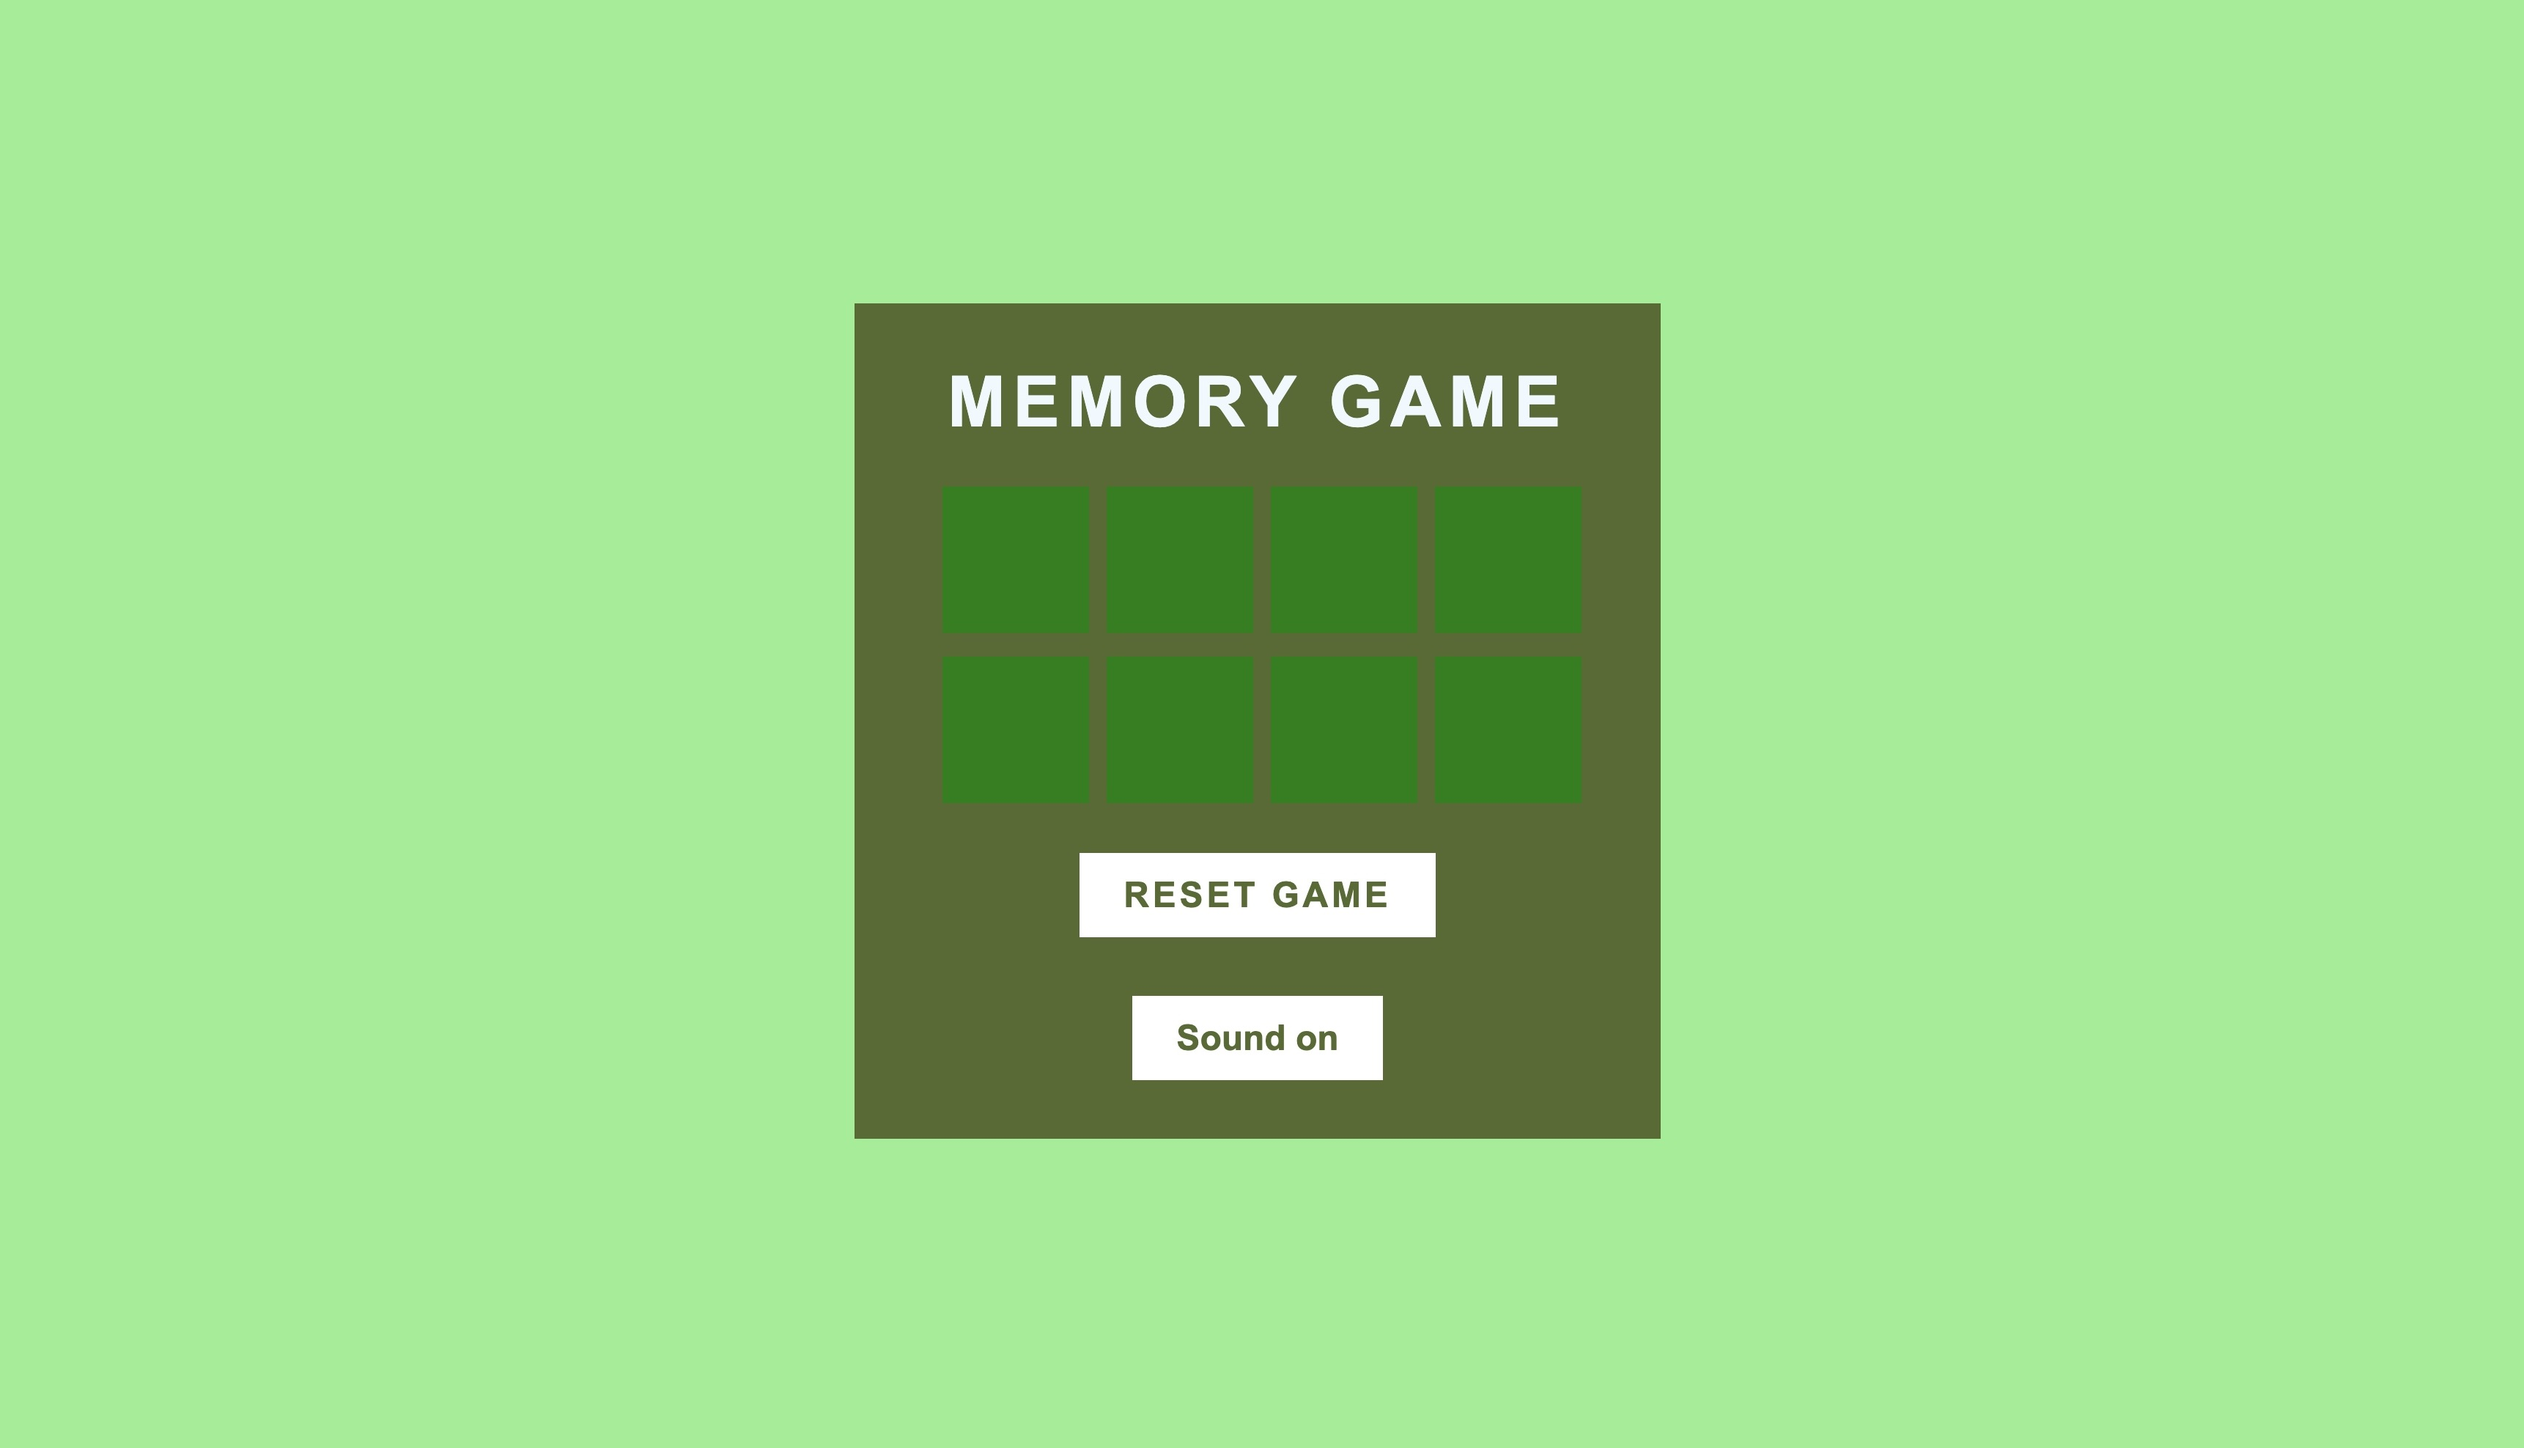
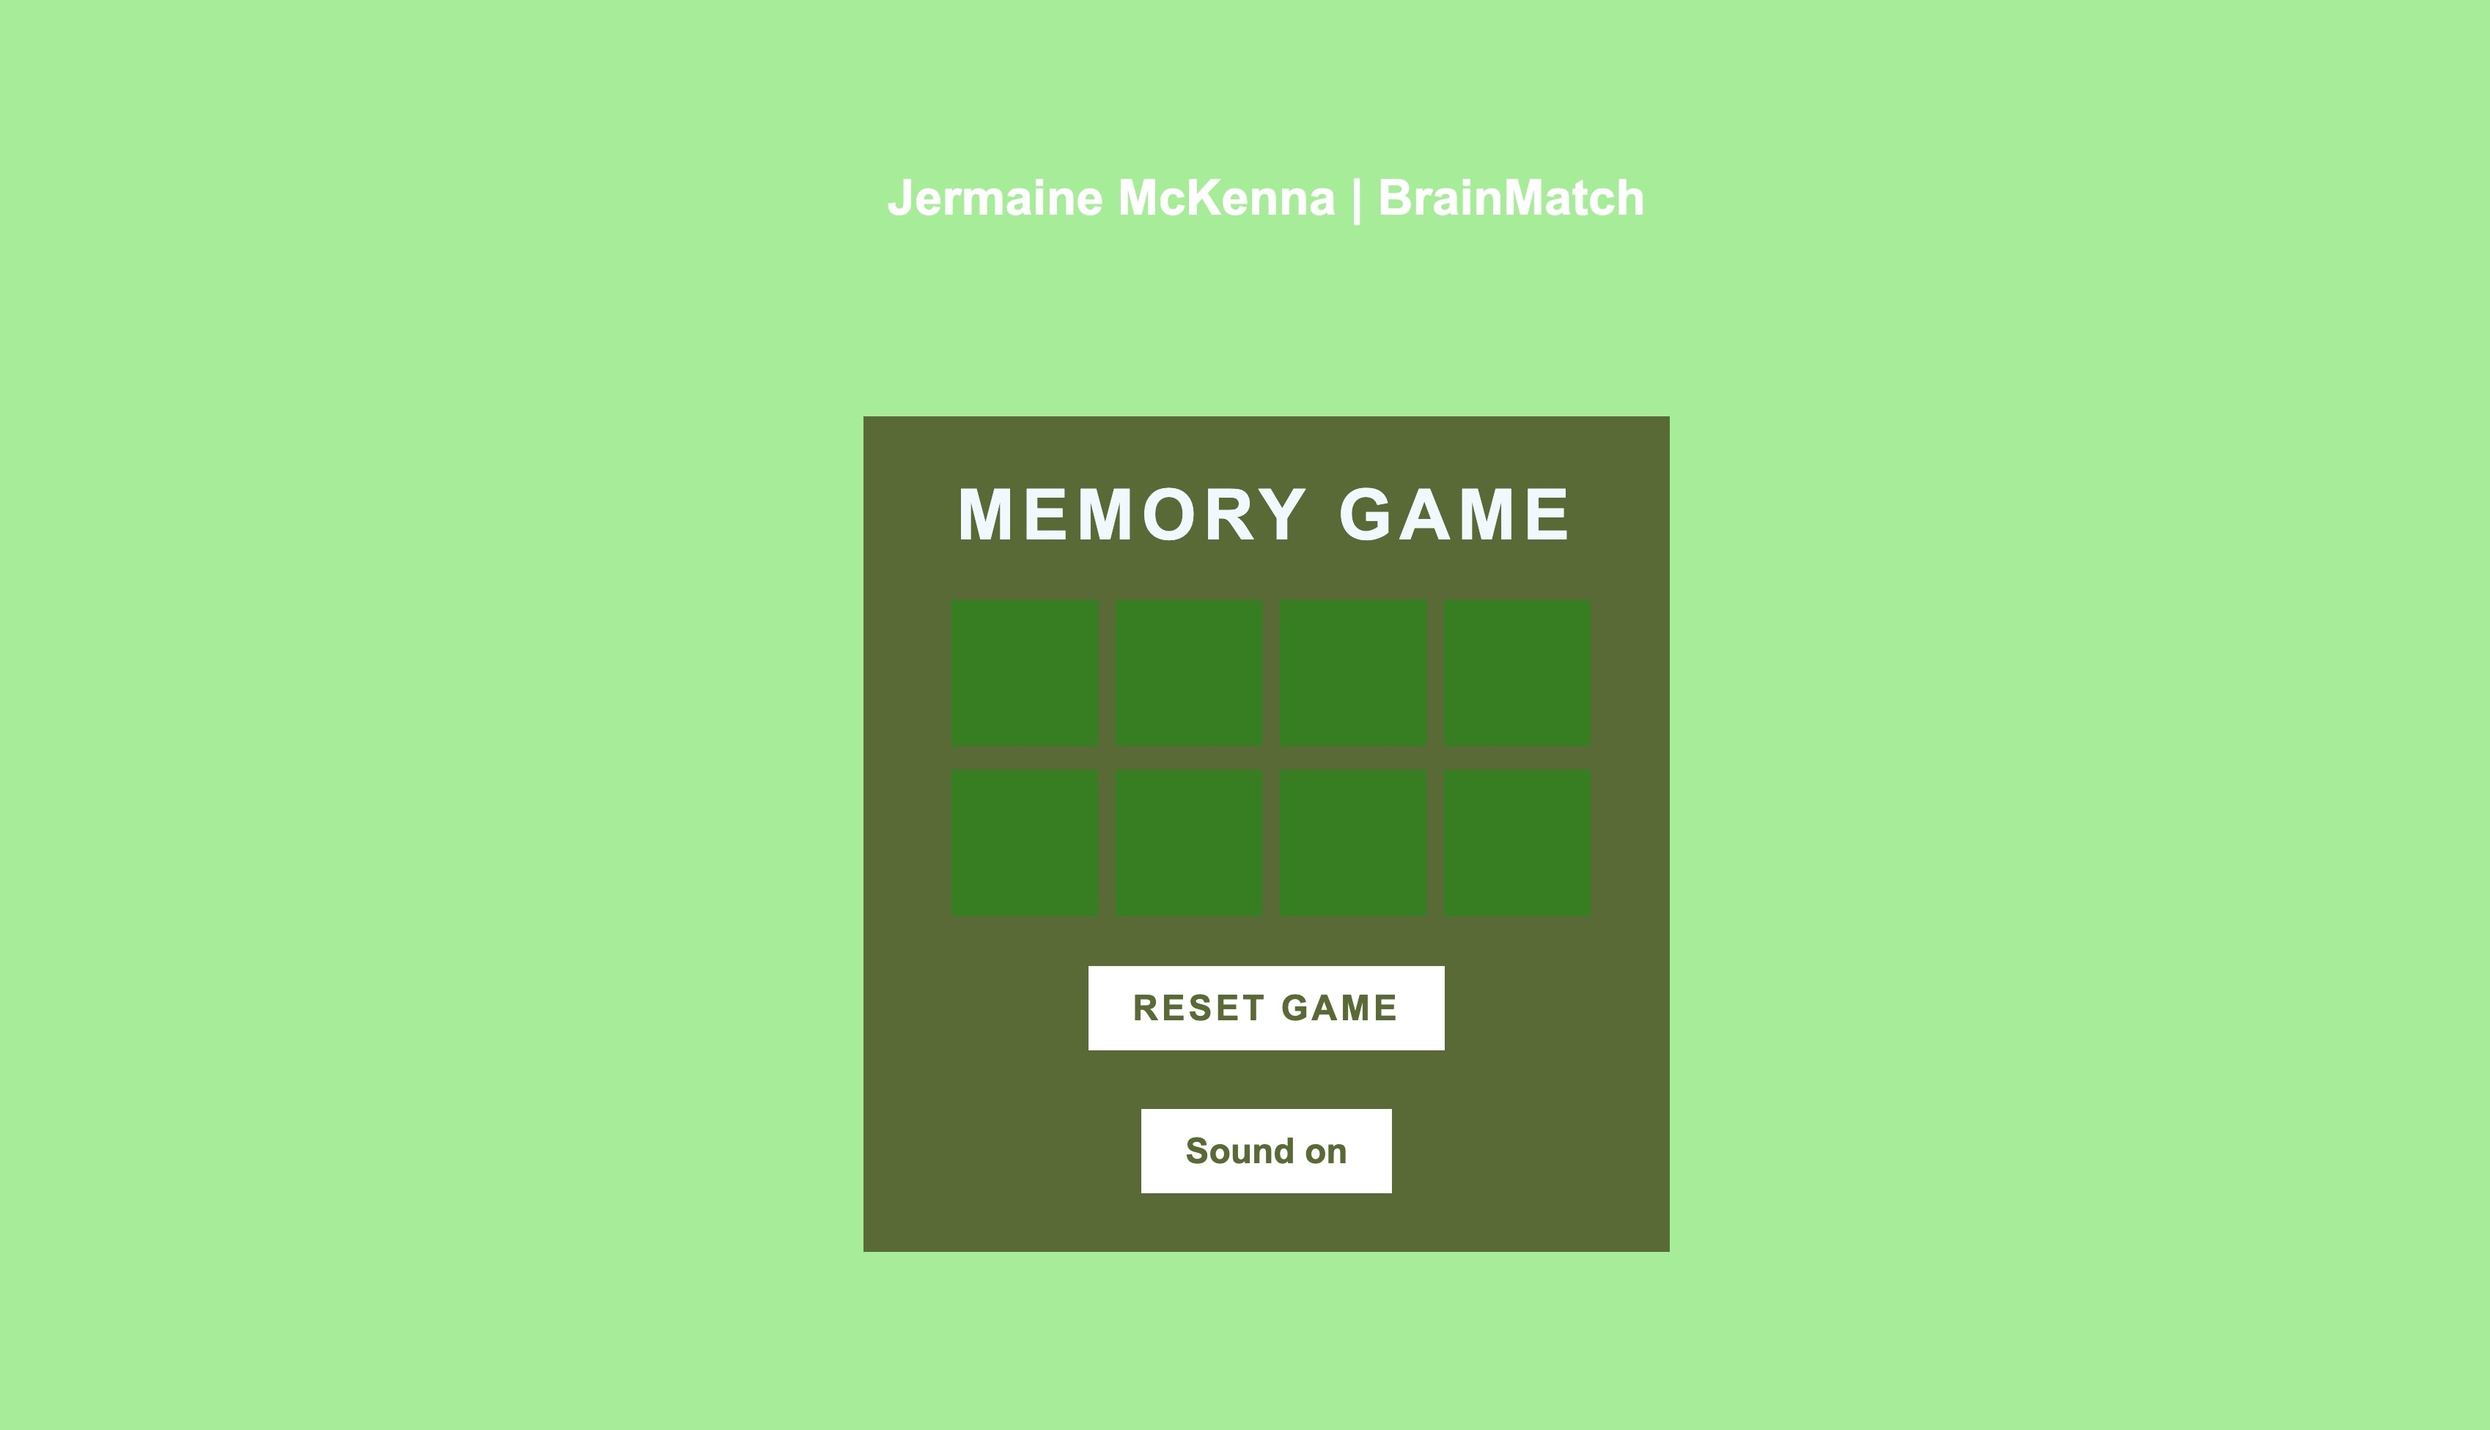
updated header on game page & readme

Changed region(s): [[0.312, 0.1845, 0.6865, 0.8919], [0.3432, 0.123, 0.6553, 0.1538]]

diff --git a/style.css b/style.css
@@ -6,6 +6,21 @@
     font-family:Arial, Helvetica, sans-serif;
 }
 
+.page-wrapper {
+    display: flex;
+    flex-direction: column;
+    align-items: center;
+}
+
+.page-header {
+    text-align: center;
+    margin-top: 10px;
+    margin-bottom: 130px;
+    font-family: 'Arial', sans-serif;
+    font-size: 1.4rem;
+    color: #ffffff;
+    }
+
 body {
     display: flex;
     justify-content: center;

diff --git a/index.html b/index.html
@@ -14,6 +14,11 @@
 
 </head>
 <body>
+    <div class="page-wrapper">
+    <header class="page-header">
+    <h2>Jermaine McKenna | BrainMatch</h2>
+    </header>
+    
     <div class="container">
     <h1>Memory Game</h1>
     <div class="game"></div>
@@ -117,7 +122,8 @@
   }
 
   
-  createBoard(level);
+    createBoard(level);
 </script>
+    </div>
 </body>
 </html>

diff --git a/README.md b/README.md
@@ -3,5 +3,8 @@
 BrainMatch is a browser-based card memory game designed to sharpen an indivduals memory and concentration skills. Users must flip and and match emoji pairs with a level challenging layout across five different modes. The memory game aims to improve cognitive function in a fun and rewarding way, by achieving this it is now suitable for users all ages who want to test and improve their memory while having fun.
 
 ![memorygame](readme/mg.jpg)
----
+
+
+
+
 
